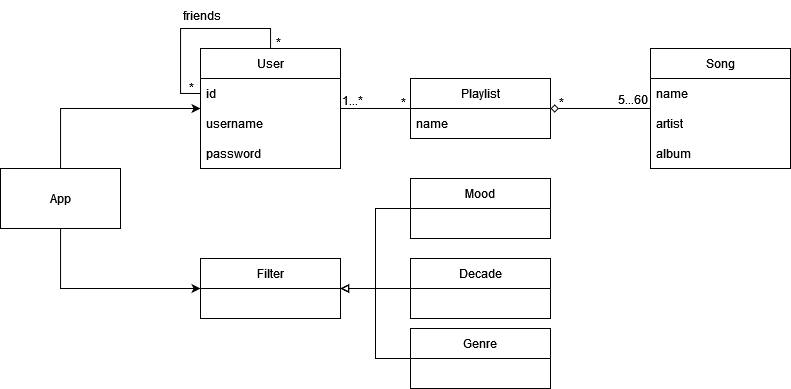
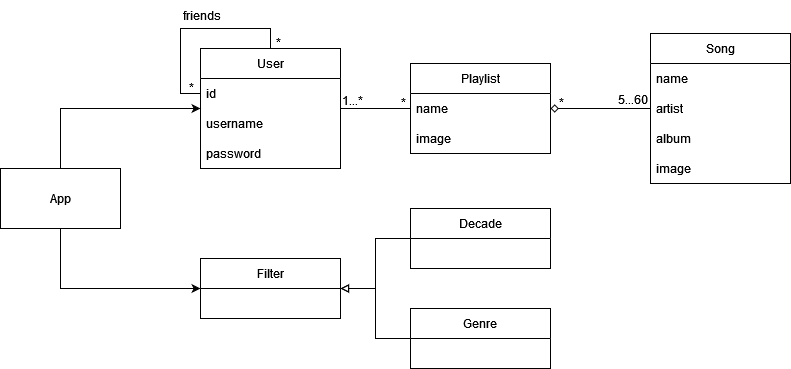
updating docs

diff --git a/docs/ArchitectureAndDesign.md b/docs/ArchitectureAndDesign.md
@@ -10,8 +10,6 @@ Matchify System has the following packages:
 
 * `Matchify GUI:` responsible for drawing the widgets and the screens of the app and allows the interaction between the app and the user.
 
-* `Matchify Authentication:` responsible for the authentication of the user.
-
 * `Matchify Business Logic:` imports songs from the Spotify API, enables users to create playlists and connects the app to the database.
 
 * `Matchify Database Schema:` manages the database so information can be retrieved and uploaded.
@@ -28,14 +26,15 @@ External Services englobes:
 
 ### Physical architecture
 
-In our app's physical architecture, a mobile device is necessary
-to interact with the application made in Dart.
+In our app's physical architecture, a mobile device is necessary to interact with the application made in Dart.
 
-The mobile device connects to the Firebase server
-which features the realtime database where all the information created by
-the app is stored and manages user authentication of our application.
+The mobile device connects to the Firebase server which features:
+ 
+* `Firebase Authentication services:` responsible for handling user authentication and account management.
 
-It also connects to the Spotify API. This API is used in order to fetch songs and functionalities.
+* `Firebase Realtime database services:` responsible for storing and syncing user data in real-time between connected clients.
+
+It also connects to the `Spotify API`, which provides a wide range of functionalities for accessing and managing music-related data, such as retrieving songs, albums, playlists, artist information, and more.
 
  <p align="center" justify="center">
   <img src="/images/physical_architecture.png"/>

diff --git a/docs/ElevatorPitch.md b/docs/ElevatorPitch.md
@@ -1,7 +1,9 @@
 ## Elevator Pitch
-Draft a small text to help you quickly introduce and describe your product in a short time and a few words (~800 characters), a technique usually known as elevator pitch.
 
-Take a look at the following links to learn some techniques:
-* [Crafting an Elevator Pitch](https://www.mindtools.com/pages/article/elevator-pitch.htm)
-* [The Best Elevator Pitch Examples, Templates, and Tactics - A Guide to Writing an Unforgettable Elevator Speech, by strategypeak.com](https://strategypeak.com/elevator-pitch-examples/)
-* [Top 7 Killer Elevator Pitch Examples, by toggl.com](https://blog.toggl.com/elevator-pitch-examples/)
+Manually creating personalized playlists can be a time-consuming and tiring task. That's why we've developed **Matchify**, an innovative solution that will make this process faster and more engaging, and introduce you to new songs you'll love.
+
+With Matchify, you can quickly create a personalized playlist based on your musical preferences. Just a few clicks to mix different genres and decades, and select the songs that you enjoy the most. After swiping left on at least 5 songs, we instantly create a playlist of the size specified by you.
+
+But Matchify goes beyond that! With our application, you can also mix your playlists with each other or with those of your friends, creating new playlists. And if you want, you can export those playlists to platforms like Spotify.
+
+Discover new music and have personalized playlists in seconds, quickly and easily with Matchify.

diff --git a/README.md b/README.md
@@ -15,9 +15,9 @@ You can find here details about the product (or mini-app or module), from a high
   * [Logical architecture](docs/ArchitectureAndDesign.md#Logical-architecture)
   * [Physical architecture](docs/ArchitectureAndDesign.md#Physical-architecture)
   * [Vertical prototype](docs/ArchitectureAndDesign.md#Vertical-prototype)
-* [Implementation]
-* [Test]
-* [Configuration and change management]
+* [Implementation] (app)
+* [Unit tests](app/test)
+* [Acceptance tests](app/test_driver)
 * [Project management](docs/ProjectManagement.md)
 
 So far, contributions are exclusively made by the initial team, but we hope to open them to the community, in all areas and topics: requirements, technologies, development, experimentation, testing, etc.

diff --git a/docs/ProductVision.md b/docs/ProductVision.md
@@ -20,5 +20,5 @@ Our app allows you to discover and curate your own perfect soundtrack with just 
 
 ### Assumptions and dependencies
 * [Spotify Web API](https://developer.spotify.com/documentation/web-api)
-* [Spotify SDK](https://developer.spotify.com/documentation/android)
-* [Spotify Play Button]
+* [Firebase Realtime Database](https://firebase.google.com/docs/database)
+* [Firebase Auth](https://firebase.google.com/docs/auth)

diff --git a/docs/requirements.md b/docs/requirements.md
@@ -16,7 +16,6 @@ The domain model of our application is composed by 7 classes.
 
 * Filter and respective subclasses: contains information about all the different filters the user can apply to their search.
 
-
  <p align="center" justify="center">
   <img src="/images/domain_model.png"/>
 </p>
